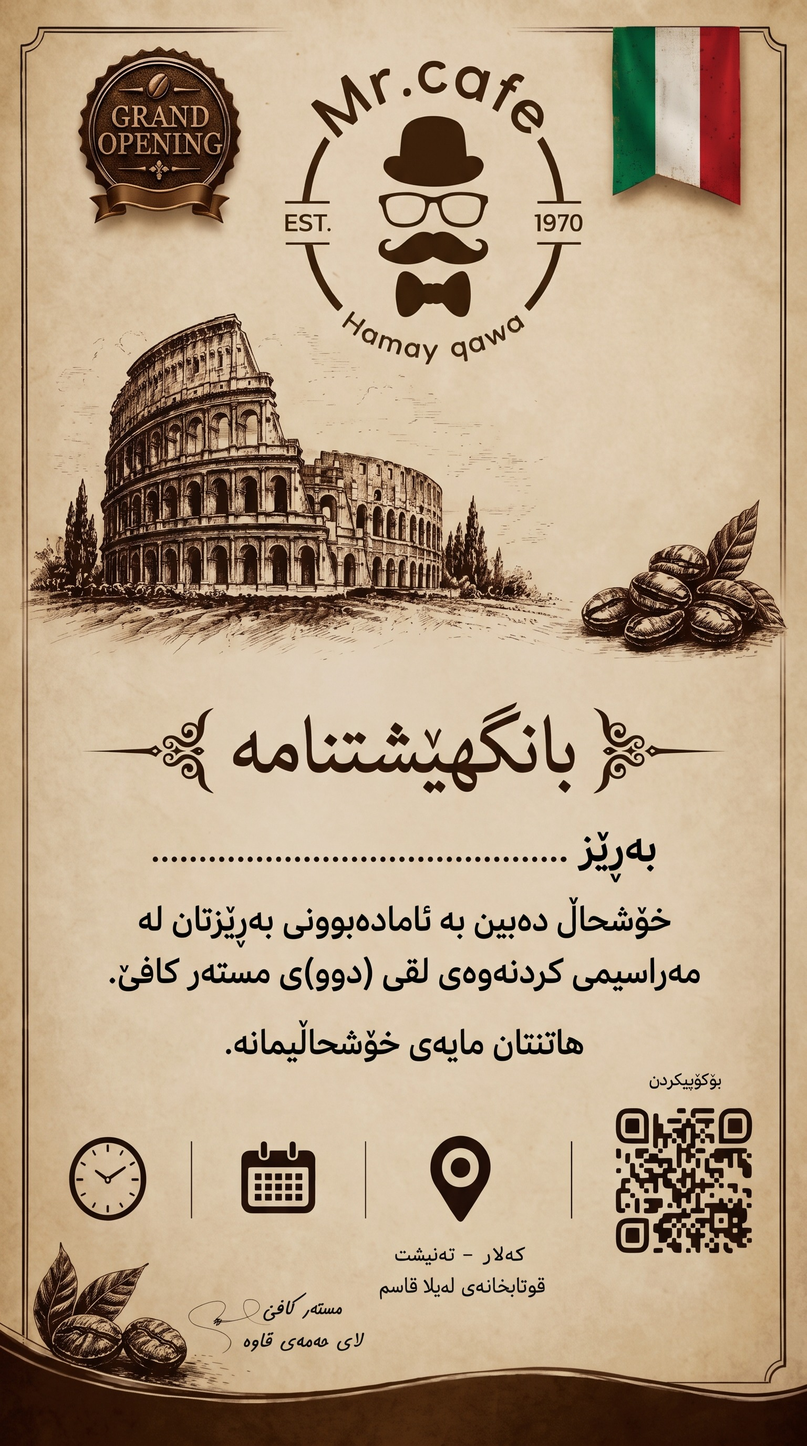
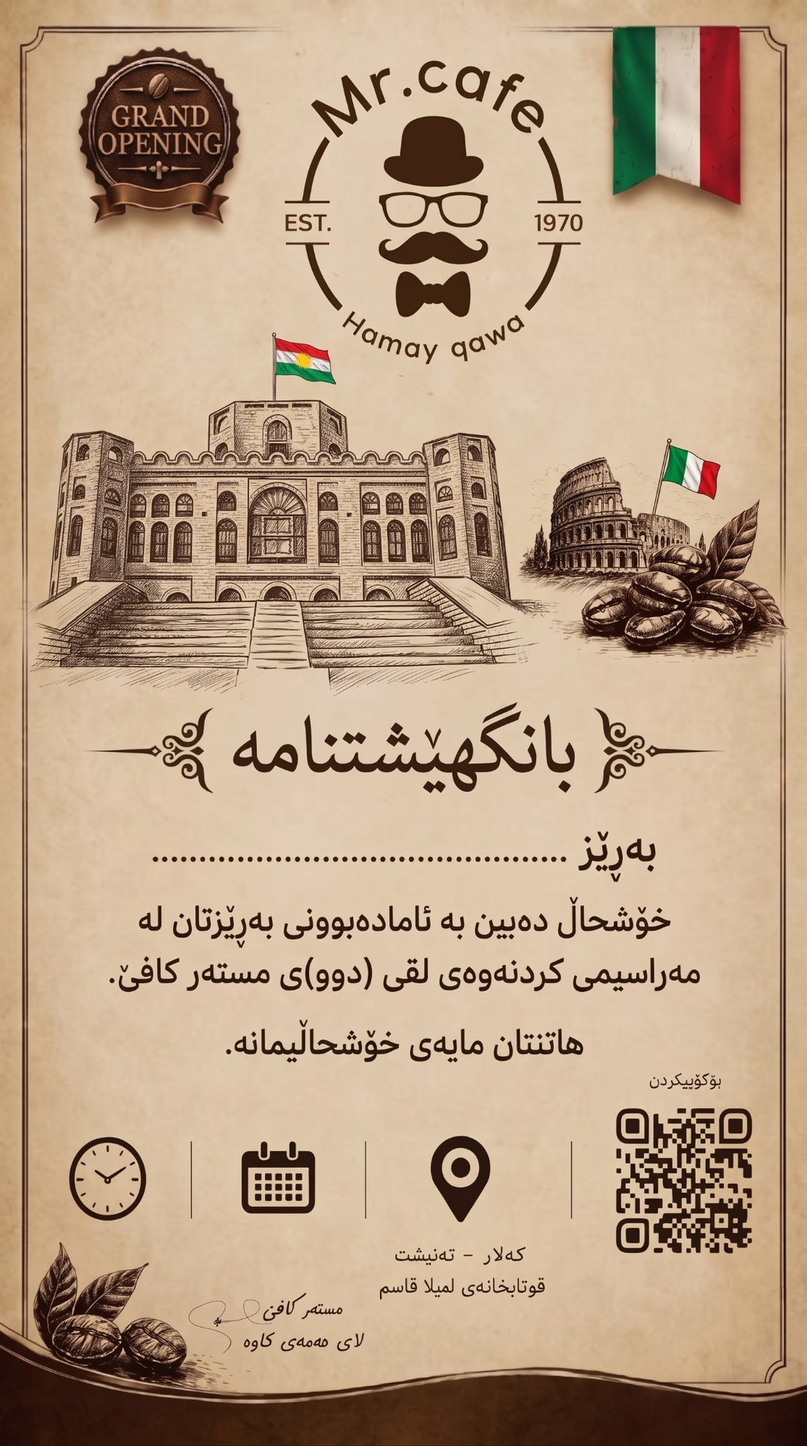
feat: new invitation backgrounds (parliament + Colosseum design)
Replace both template backgrounds with the updated artwork and add a
per-template baseline offset, since the dotted name line on the second
card sits 19px lower than on the first.

diff --git a/app.js b/app.js
@@ -48,6 +48,8 @@
     "2": {
       // وێنەیەک کە دەقی دووەم لەسەر چاپکراوە
       image: "new_invite_bg_2.jpg",
+      // خاڵەکانی «بەڕێز» لەم وێنەیەدا ١٩px نزمترن (y ≈ ١٦٥٠ لەجیاتی ١٦٣١)
+      baselineOffset: 19 / 2752,
       body:
         "بەڕێزتان بانگێشت کراون بۆ مەراسیمی کردنەوەی لقی (دوو)ی مستەر کافێ،\n" +
         "ئامادەبوونتان مایەی خۆشحاڵیمانە.",
@@ -228,7 +230,7 @@
       ink,
       font: `bold ${px}px ${CFG.fontFamily}`,
       anchorX: canvas.width * state.centerX + ink.dx,
-      baselineY: canvas.height * state.baselineY,
+      baselineY: canvas.height * (state.baselineY + ((TEMPLATES[state.template] || {}).baselineOffset || 0)),
       color: state.color,
     };
   }
